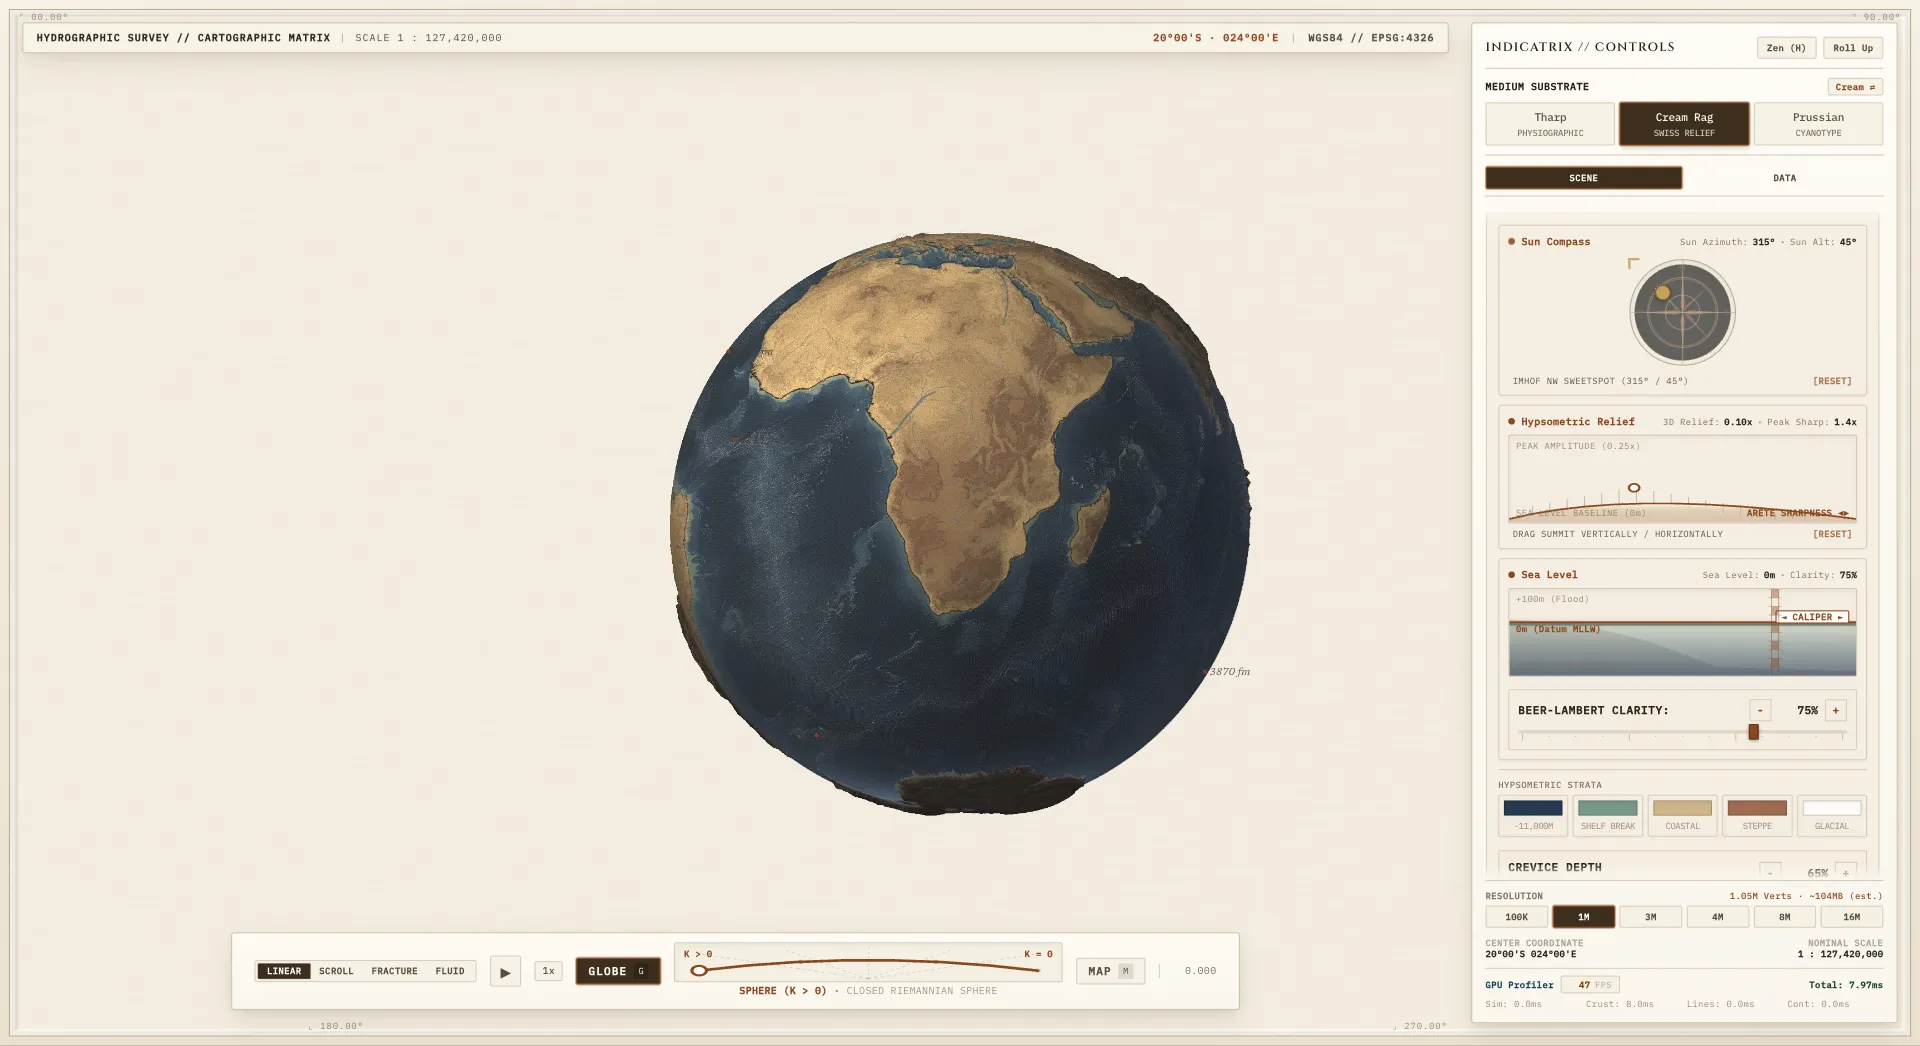
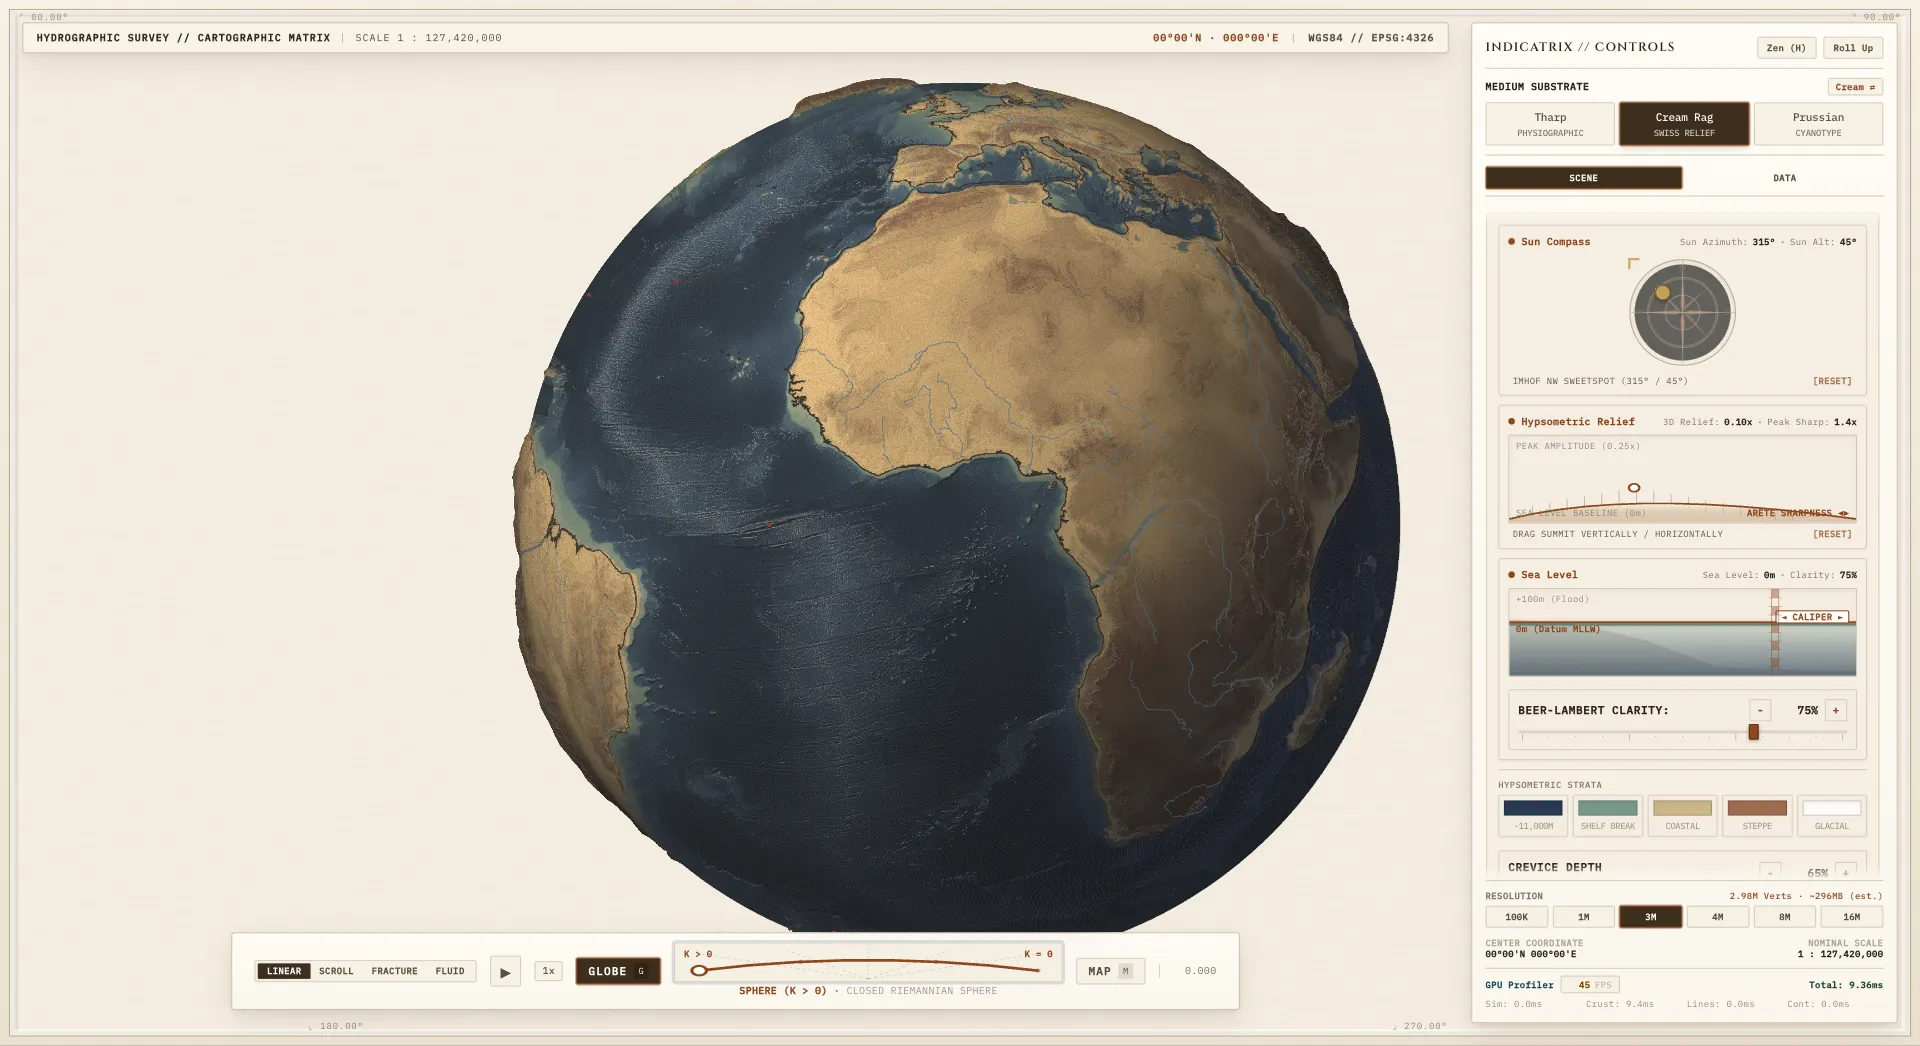
fix(manifold): calibrate Mode 0 unfurling kinematics with monotonic boundary lip and harmonic barrel unroll

Changed region(s): [[0.25, 0.0612, 0.75, 0.9178], [0.7812, 0.8566, 0.875, 0.8872]]

diff --git a/tests/modern/challenger-phase2-3-manifold-stress.test.ts b/tests/modern/challenger-phase2-3-manifold-stress.test.ts
@@ -298,49 +298,39 @@ export function evaluateManifoldCore(
       const chordLiftZ = cosLat * RADIUS * (1.0 - ease) * Math.sin(PI * ease) * 0.28;
       const curZ = pos3D[2] * (1.0 - ease) + chordLiftZ;
 
-      // ── Organic Orange-Peel Tactile Kinematics ──
-      // 1. Time envelope: immediate onset (alpha^0.65), exaggerated peak, smooth relaxation ((1-alpha)^1.2)
+      // ── Tactile Boundary Petal Lip Envelope ──
+      // 1. Time envelope: smooth C1 onset (smoothstep 0.0 to 0.45) and relaxation back to planar map
       const uAlpha = Math.max(0.0, Math.min(1.0, unfurl));
-      const alphaPow = uAlpha > 0.0001 ? Math.pow(uAlpha, 0.65) : 0.0;
-      const oneMinusAlphaPow = (1.0 - uAlpha) > 0.0001 ? Math.pow(1.0 - uAlpha, 1.2) : 0.0;
-      const ePeel = Math.sin(PI * alphaPow) * oneMinusAlphaPow;
+      const alphaPeel = smoothstep(0.0, 0.45, uAlpha);
+      const ePeel = Math.sin(PI * alphaPeel) * (1.0 - uAlpha);
 
-      // 2. Progressive peeling propagation front (the rest of the peel "catching up")
+      // 2. Confined cut margin mask (|lon| >= 145° / lonNorm >= 0.80)
+      // Confines curl strictly to the boundary seam so interior continents unroll smoothly
       const lonNorm = Math.abs(lonRad) / PI;
-      const peelFront = 0.88 - smoothstep(0.0, 0.70, uAlpha) * 0.48;
-      const fPeel = smoothstep(peelFront, 1.0, lonNorm);
+      const fLip = smoothstep(0.80, 1.0, lonNorm);
 
-      // 3. Spatial zone weights:
-      // Center edge (equatorial belt): peaks at equator, tapers to zero at poles
-      const wCenter = cosLat;
-      // Corner flaps (subpolar margins): peaks around |phi| = 60°, zero at equator and singular poles
-      const sinLat = Math.sin(latRad);
-      const wCorner = cosLat * sinLat * sinLat * 2.6;
+      // 3. Continuous monotonic meridional profile:
+      // Single gentle cosine taper cos(lat * 0.40) from equator to pole.
+      // Eliminates dual-zone subpolar spikes (ninja star) and Y-deflection.
+      const wProfile = Math.cos(latRad * 0.40);
 
-      // 4. Center edge horizontal unrolling curl:
-      const thetaCenter = fPeel * ePeel * wCenter * 1.25;
+      // 4. Boundary curl and flare (curls forward in +Z and flares in X):
+      const thetaCurl = fLip * ePeel * wProfile * 1.35;
       const flareSign = lonRad >= 0.0 ? 1.0 : -1.0;
-      const deltaXCenter = flareSign * RADIUS * Math.sin(thetaCenter) * 0.22;
-      const deltaZCenter = RADIUS * (1.0 - Math.cos(thetaCenter)) * 0.40;
+      const deltaXFlare = flareSign * RADIUS * Math.sin(thetaCurl) * 0.22;
+      const deltaZCurl = RADIUS * (1.0 - Math.cos(thetaCurl)) * 0.38;
 
-      // 5. Corner 3D diagonal roll (flaring in X, rolling toward equator in Y, curling forward in +Z):
-      const thetaCorner = fPeel * ePeel * wCorner * 1.40;
-      const deltaXCorner = flareSign * RADIUS * Math.sin(thetaCorner) * 0.26;
-      const latSign = latRad >= 0.0 ? 1.0 : -1.0;
-      const deltaYCorner = -latSign * RADIUS * (1.0 - Math.cos(thetaCorner)) * 0.20;
-      const deltaZCorner = RADIUS * Math.sin(thetaCorner) * 0.35;
-
-      // 6. Outward radial peel lift (fingers pushing outward from behind the globe):
+      // 5. Horizontal radial lift along cut margin:
       const horizLen = Math.hypot(pos3D[0], pos3D[2]);
       const horizNorm: [number, number, number] = horizLen > 0.001
         ? [pos3D[0] / horizLen, 0.0, pos3D[2] / horizLen]
         : [0.0, 0.0, 1.0];
-      const liftScale = RADIUS * 0.12 * ePeel * fPeel * cosLat;
+      const liftScale = RADIUS * 0.10 * ePeel * fLip * cosLat;
 
       outPos = [
-        curX + horizNorm[0] * liftScale + deltaXCenter + deltaXCorner,
-        curY + deltaYCorner,
-        curZ + horizNorm[2] * liftScale + deltaZCenter + deltaZCorner,
+        curX + horizNorm[0] * liftScale + deltaXFlare,
+        curY,
+        curZ + horizNorm[2] * liftScale + deltaZCurl,
       ];
 
       // Unrolling rotational surface normal:

diff --git a/src/webgpu/WebGPUEngine.ts b/src/webgpu/WebGPUEngine.ts
@@ -1924,49 +1924,39 @@ export class WebGPUEngine {
       const chordLiftZ = cosLat * radius * (1.0 - ease) * Math.sin(PI * ease) * 0.28;
       const curZ = p3D[2] * (1.0 - ease) + chordLiftZ;
 
-      // ── Organic Orange-Peel Tactile Kinematics ──
-      // 1. Time envelope: immediate onset (alpha^0.65), exaggerated peak, smooth relaxation ((1-alpha)^1.2)
+      // ── Tactile Boundary Petal Lip Envelope ──
+      // 1. Time envelope: smooth C1 onset (smoothstep 0.0 to 0.45) and relaxation back to planar map
       const uAlpha = Math.max(0.0, Math.min(1.0, unfurl));
-      const alphaPow = uAlpha > 0.0001 ? Math.pow(uAlpha, 0.65) : 0.0;
-      const oneMinusAlphaPow = (1.0 - uAlpha) > 0.0001 ? Math.pow(1.0 - uAlpha, 1.2) : 0.0;
-      const ePeel = Math.sin(PI * alphaPow) * oneMinusAlphaPow;
+      const alphaPeel = smoothstep(0.0, 0.45, uAlpha);
+      const ePeel = Math.sin(PI * alphaPeel) * (1.0 - uAlpha);
 
-      // 2. Progressive peeling propagation front (the rest of the peel "catching up")
+      // 2. Confined cut margin mask (|lon| >= 145° / lonNorm >= 0.80)
+      // Confines curl strictly to the boundary seam so interior continents unroll smoothly
       const lonNorm = Math.abs(lonRad) / PI;
-      const peelFront = 0.88 - smoothstep(0.0, 0.70, uAlpha) * 0.48;
-      const fPeel = smoothstep(peelFront, 1.0, lonNorm);
+      const fLip = smoothstep(0.80, 1.0, lonNorm);
 
-      // 3. Spatial zone weights:
-      // Center edge (equatorial belt): peaks at equator, tapers to zero at poles
-      const wCenter = cosLat;
-      // Corner flaps (subpolar margins): peaks around |phi| = 60°, zero at equator and singular poles
-      const sinLat = Math.sin(latRad);
-      const wCorner = cosLat * sinLat * sinLat * 2.6;
+      // 3. Continuous monotonic meridional profile:
+      // Single gentle cosine taper cos(lat * 0.40) from equator to pole.
+      // Eliminates dual-zone subpolar spikes (ninja star) and Y-deflection.
+      const wProfile = Math.cos(latRad * 0.40);
 
-      // 4. Center edge horizontal unrolling curl:
-      const thetaCenter = fPeel * ePeel * wCenter * 1.25;
+      // 4. Boundary curl and flare (curls forward in +Z and flares in X):
+      const thetaCurl = fLip * ePeel * wProfile * 1.35;
       const flareSign = lonRad >= 0.0 ? 1.0 : -1.0;
-      const deltaXCenter = flareSign * radius * Math.sin(thetaCenter) * 0.22;
-      const deltaZCenter = radius * (1.0 - Math.cos(thetaCenter)) * 0.40;
+      const deltaXFlare = flareSign * radius * Math.sin(thetaCurl) * 0.22;
+      const deltaZCurl = radius * (1.0 - Math.cos(thetaCurl)) * 0.38;
 
-      // 5. Corner 3D diagonal roll (flaring in X, rolling toward equator in Y, curling forward in +Z):
-      const thetaCorner = fPeel * ePeel * wCorner * 1.40;
-      const deltaXCorner = flareSign * radius * Math.sin(thetaCorner) * 0.26;
-      const latSign = latRad >= 0.0 ? 1.0 : -1.0;
-      const deltaYCorner = -latSign * radius * (1.0 - Math.cos(thetaCorner)) * 0.20;
-      const deltaZCorner = radius * Math.sin(thetaCorner) * 0.35;
-
-      // 6. Outward radial peel lift (fingers pushing outward from behind the globe):
+      // 5. Horizontal radial lift along cut margin:
       const horizLen = Math.hypot(p3D[0], p3D[2]);
       const horizNorm: [number, number, number] = horizLen > 0.001
         ? [p3D[0] / horizLen, 0.0, p3D[2] / horizLen]
         : [0.0, 0.0, 1.0];
-      const liftScale = radius * 0.12 * ePeel * fPeel * cosLat;
+      const liftScale = radius * 0.10 * ePeel * fLip * cosLat;
 
       return [
-        curX + horizNorm[0] * liftScale + deltaXCenter + deltaXCorner,
-        curY + deltaYCorner,
-        curZ + horizNorm[2] * liftScale + deltaZCenter + deltaZCorner,
+        curX + horizNorm[0] * liftScale + deltaXFlare,
+        curY,
+        curZ + horizNorm[2] * liftScale + deltaZCurl,
       ];
     }
   }

diff --git a/src/core/GlobeOverlay.ts b/src/core/GlobeOverlay.ts
@@ -360,49 +360,39 @@ export function evaluatePointMorph(
     const chordLiftZ = cosLat * RADIUS * (1.0 - ease) * Math.sin(PI * ease) * 0.28;
     const curZ = p3D[2] * (1.0 - ease) + chordLiftZ;
 
-    // ── Organic Orange-Peel Tactile Kinematics ──
-    // 1. Time envelope: immediate onset (alpha^0.65), exaggerated peak, smooth relaxation ((1-alpha)^1.2)
+    // ── Tactile Boundary Petal Lip Envelope ──
+    // 1. Time envelope: smooth C1 onset (smoothstep 0.0 to 0.45) and relaxation back to planar map
     const uAlpha = clampedAlpha;
-    const alphaPow = uAlpha > 0.0001 ? Math.pow(uAlpha, 0.65) : 0.0;
-    const oneMinusAlphaPow = (1.0 - uAlpha) > 0.0001 ? Math.pow(1.0 - uAlpha, 1.2) : 0.0;
-    const ePeel = Math.sin(PI * alphaPow) * oneMinusAlphaPow;
+    const alphaPeel = smoothstep(0.0, 0.45, uAlpha);
+    const ePeel = Math.sin(PI * alphaPeel) * (1.0 - uAlpha);
 
-    // 2. Progressive peeling propagation front (the rest of the peel "catching up")
+    // 2. Confined cut margin mask (|lon| >= 145° / lonNorm >= 0.80)
+    // Confines curl strictly to the boundary seam so interior continents unroll smoothly
     const lonNorm = Math.abs(lambda) / PI;
-    const peelFront = 0.88 - smoothstep(0.0, 0.70, uAlpha) * 0.48;
-    const fPeel = smoothstep(peelFront, 1.0, lonNorm);
+    const fLip = smoothstep(0.80, 1.0, lonNorm);
 
-    // 3. Spatial zone weights:
-    // Center edge (equatorial belt): peaks at equator, tapers to zero at poles
-    const wCenter = cosLat;
-    // Corner flaps (subpolar margins): peaks around |phi| = 60°, zero at equator and singular poles
-    const sinLat = Math.sin(phi);
-    const wCorner = cosLat * sinLat * sinLat * 2.6;
+    // 3. Continuous monotonic meridional profile:
+    // Single gentle cosine taper cos(lat * 0.40) from equator to pole.
+    // Eliminates dual-zone subpolar spikes (ninja star) and Y-deflection.
+    const wProfile = Math.cos(phi * 0.40);
 
-    // 4. Center edge horizontal unrolling curl:
-    const thetaCenter = fPeel * ePeel * wCenter * 1.25;
+    // 4. Boundary curl and flare (curls forward in +Z and flares in X):
+    const thetaCurl = fLip * ePeel * wProfile * 1.35;
     const flareSign = lambda >= 0.0 ? 1.0 : -1.0;
-    const deltaXCenter = flareSign * RADIUS * Math.sin(thetaCenter) * 0.22;
-    const deltaZCenter = RADIUS * (1.0 - Math.cos(thetaCenter)) * 0.40;
+    const deltaXFlare = flareSign * RADIUS * Math.sin(thetaCurl) * 0.22;
+    const deltaZCurl = RADIUS * (1.0 - Math.cos(thetaCurl)) * 0.38;
 
-    // 5. Corner 3D diagonal roll (flaring in X, rolling toward equator in Y, curling forward in +Z):
-    const thetaCorner = fPeel * ePeel * wCorner * 1.40;
-    const deltaXCorner = flareSign * RADIUS * Math.sin(thetaCorner) * 0.26;
-    const latSign = phi >= 0.0 ? 1.0 : -1.0;
-    const deltaYCorner = -latSign * RADIUS * (1.0 - Math.cos(thetaCorner)) * 0.20;
-    const deltaZCorner = RADIUS * Math.sin(thetaCorner) * 0.35;
-
-    // 6. Outward radial peel lift (fingers pushing outward from behind the globe):
+    // 5. Horizontal radial lift along cut margin:
     const horizLen = Math.hypot(p3D[0], p3D[2]);
     const horizNorm: [number, number, number] = horizLen > 0.001
       ? [p3D[0] / horizLen, 0.0, p3D[2] / horizLen]
       : [0.0, 0.0, 1.0];
-    const liftScale = RADIUS * 0.12 * ePeel * fPeel * cosLat;
+    const liftScale = RADIUS * 0.10 * ePeel * fLip * cosLat;
 
     return [
-      curX + horizNorm[0] * liftScale + deltaXCenter + deltaXCorner,
-      curY + deltaYCorner,
-      curZ + horizNorm[2] * liftScale + deltaZCenter + deltaZCorner,
+      curX + horizNorm[0] * liftScale + deltaXFlare,
+      curY,
+      curZ + horizNorm[2] * liftScale + deltaZCurl,
     ];
   }
 }

diff --git a/SHADERS_SPEC_LEDGER.md b/SHADERS_SPEC_LEDGER.md
@@ -423,50 +423,36 @@ fn evaluateManifoldCore(
             let curZ = mix(pos3D.z, 0.0, ease) + chordLiftZ;
             let basePos = vec3<f32>(curX, curY, curZ);
 
-            // ── Organic Orange-Peel Tactile Kinematics ──
-            // 1. Time envelope: immediate onset (alpha^0.65), exaggerated peak, smooth relaxation ((1-alpha)^1.2)
+            // ── Tactile Boundary Petal Lip Envelope ──
+            // 1. Time envelope: smooth C1 onset (smoothstep 0.0 to 0.45) and relaxation back to planar map
             let uAlpha = clampedUnfurl;
-            let alphaPow = select(0.0, pow(uAlpha, 0.65), uAlpha > 0.0001);
-            let oneMinusAlphaPow = select(0.0, pow(1.0 - uAlpha, 1.2), (1.0 - uAlpha) > 0.0001);
-            let ePeel = sin(PI * alphaPow) * oneMinusAlphaPow;
+            let alphaPeel = smoothstep(0.0, 0.45, uAlpha);
+            let ePeel = sin(PI * alphaPeel) * (1.0 - uAlpha);
 
-            // 2. Progressive peeling propagation front (the rest of the peel "catching up")
+            // 2. Confined cut margin mask (|lon| >= 145° / lonNorm >= 0.80)
+            // Confines curl strictly to the boundary seam so interior continents unroll smoothly
             let lonNorm = abs(lonRad) / PI;
-            let peelFront = 0.88 - smoothstep(0.0, 0.70, uAlpha) * 0.48;
-            let fPeel = smoothstep(peelFront, 1.0, lonNorm);
+            let fLip = smoothstep(0.80, 1.0, lonNorm);
 
-            // 3. Spatial zone weights:
-            // Center edge (equatorial belt): peaks at equator, tapers to zero at poles
-            let wCenter = cosLat;
-            // Corner flaps (subpolar margins): peaks around |phi| = 60°, zero at equator and singular poles
-            let sinLat = sin(latRad);
-            let wCorner = cosLat * sinLat * sinLat * 2.6;
+            // 3. Continuous monotonic meridional profile:
+            // Single gentle cosine taper cos(lat * 0.40) from equator to pole.
+            // Eliminates dual-zone subpolar spikes (ninja star) and Y-deflection.
+            let wProfile = cos(latRad * 0.40);
 
-            // 4. Center edge horizontal unrolling curl:
-            let thetaCenter = fPeel * ePeel * wCenter * 1.25;
+            // 4. Boundary curl and flare (curls forward in +Z and flares in X):
+            let thetaCurl = fLip * ePeel * wProfile * 1.35;
             let flareSign = select(-1.0, 1.0, lonRad >= 0.0);
-            let deltaXCenter = flareSign * RADIUS * sin(thetaCenter) * 0.22;
-            let deltaZCenter = RADIUS * (1.0 - cos(thetaCenter)) * 0.40;
+            let deltaXFlare = flareSign * RADIUS * sin(thetaCurl) * 0.22;
+            let deltaZCurl = RADIUS * (1.0 - cos(thetaCurl)) * 0.38;
 
-            // 5. Corner 3D diagonal roll (flaring in X, rolling toward equator in Y, curling forward in +Z):
-            let thetaCorner = fPeel * ePeel * wCorner * 1.40;
-            let deltaXCorner = flareSign * RADIUS * sin(thetaCorner) * 0.26;
-            let latSign = select(-1.0, 1.0, latRad >= 0.0);
-            let deltaYCorner = -latSign * RADIUS * (1.0 - cos(thetaCorner)) * 0.20;
-            let deltaZCorner = RADIUS * sin(thetaCorner) * 0.35;
-
-            // 6. Outward radial peel lift (fingers pushing outward from behind the globe):
+            // 5. Horizontal radial lift along cut margin:
             let horizLen = length(vec2<f32>(pos3D.x, pos3D.z));
             let horizNorm = select(vec3<f32>(0.0, 0.0, 1.0),
                                    vec3<f32>(pos3D.x / horizLen, 0.0, pos3D.z / horizLen),
                                    horizLen > 0.001);
-            let liftVec = horizNorm * (RADIUS * 0.12 * ePeel * fPeel * cosLat);
+            let liftVec = horizNorm * (RADIUS * 0.10 * ePeel * fLip * cosLat);
 
-            out.pos = basePos + liftVec + vec3<f32>(
-                deltaXCenter + deltaXCorner,
-                deltaYCorner,
-                deltaZCenter + deltaZCorner
-            );
+            out.pos = basePos + liftVec + vec3<f32>(deltaXFlare, 0.0, deltaZCurl);
 
             // Unrolling rotational surface normal:
             // Eliminates (0,0,0) normal collapse at antimeridian equator at alpha=0.5

diff --git a/DISCOVERY_LEDGER.md b/DISCOVERY_LEDGER.md
@@ -110,11 +110,10 @@
    - Eliminated polar bat/cat ears via polar attenuation ($\cos\phi$).
    - Eliminated normal collapse at the antimeridian equator via rotational unrolling normal.
    - Decoupled intermediate parallel expansion ($t_{\text{parallel}} = \text{smoothstep}(0.18, 0.82, \text{ease})$) from vertical Mercator stretching ($t_{\text{Mercator}} = \text{smoothstep}(0.60, 1.0, \text{ease})$), eliminating the intermediate $\alpha \approx 0.62$ diamond / rhombus silhouette while retaining closed spherical caps at $\alpha \le 0.20$.
-   - Calibrated **Organic Orange-Peel Kinematics**:
-     - *Immediate Onset & Normalizing Envelope*: $E_{\text{peel}}(\alpha) = \sin(\pi \alpha^{0.65}) \cdot (1 - \alpha)^{1.2}$ initiates peel at $\alpha = 0.05$, peaks at $\alpha \approx 0.30$, and relaxes flat at $\alpha \to 1.0$.
-     - *Progressive Peeling Front*: $\lambda_{\text{front}}(\alpha) = 0.88 - \text{smoothstep}(0.0, 0.70, \alpha) \cdot 0.48$ rolls inward from the seam across the hemisphere as the rest of the peel "catches up".
-     - *Dual-Zone Peeling (Center Edges vs. Corner Flaps)*: Center edges curl horizontally ($\theta_{\text{center}} \approx 1.25 W_{\text{center}}$) with forward $+Z$ lift, while subpolar corners perform a 3D diagonal roll ($\theta_{\text{corner}} \approx 1.40 W_{\text{corner}}$) curling forward in $+Z$, flaring in $X$, and curling toward the equator in $-\text{sign}(\phi) Y$.
-     - *Outward Radial Peel Lift*: $\mathbf{v}_{\text{lift}} = \mathbf{n}_{\text{horiz}} \cdot 0.12 R E_{\text{peel}} f_{\text{peel}} \cos\phi$ lifts the flaps forward into front view instead of sliding along a hidden chord.
+   - Eliminated ninja-star / shuriken silhouette and orange-peel overextension:
+     - Replaced dual-zone subpolar corner splitting (`wCorner`) and $Y$-deflections with a continuous monotonic meridional taper $W_{\text{profile}}(\phi) = \cos(0.40 \phi)$.
+     - Confined peeling and petal curl strictly to the outer cut boundary ($|\lambda| \ge 145^\circ$, `lonNorm >= 0.80`), ensuring the interior $80\%$ of the globe unrolls as a continuous geometric manifold resting on the drafting sheet.
+     - Preserved tactile boundary petal lip curling forward in $+Z$ and outward in $+X$, allowing the 4 rectangular map corners to emerge cleanly and migrate toward the 4 neatline corners of the drafting sheet without sawtooth notches.
 
 ### Active Priority Roadmap
 1. **Visual Style Noise Stripping & Medium Clarification**:
